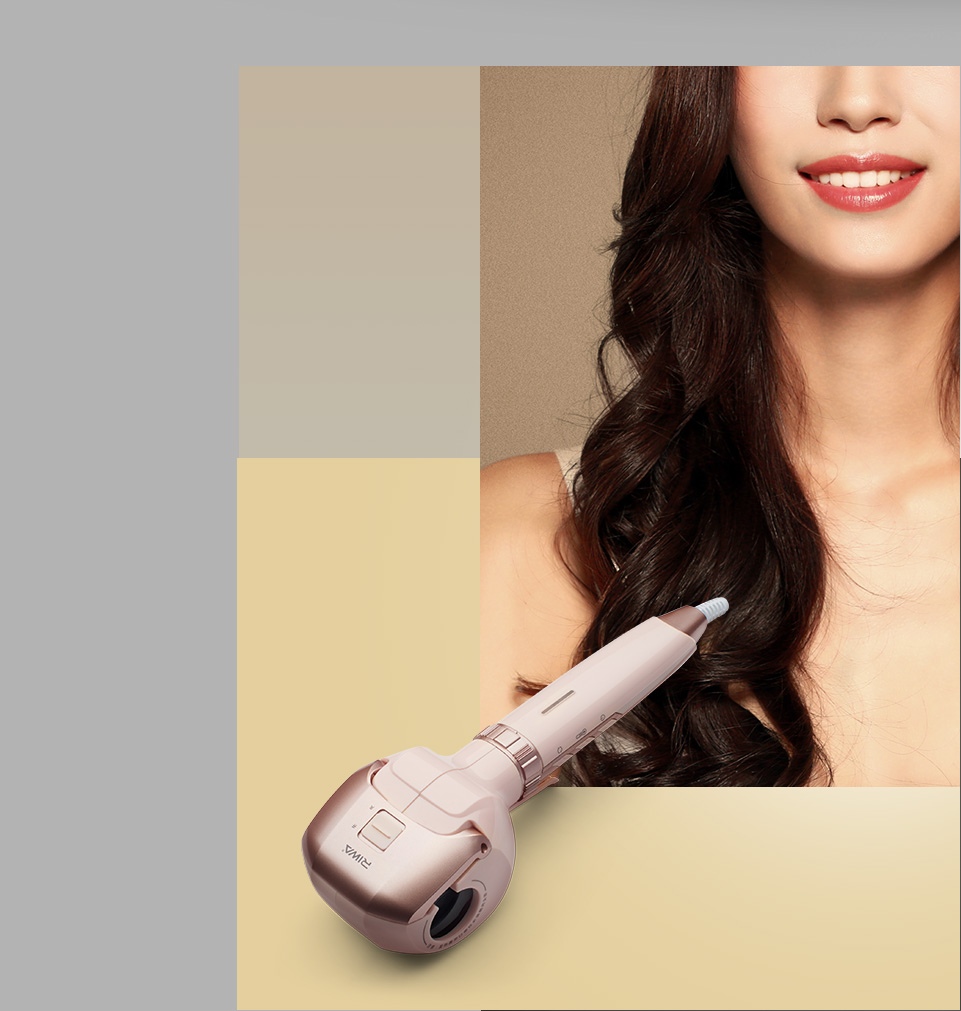
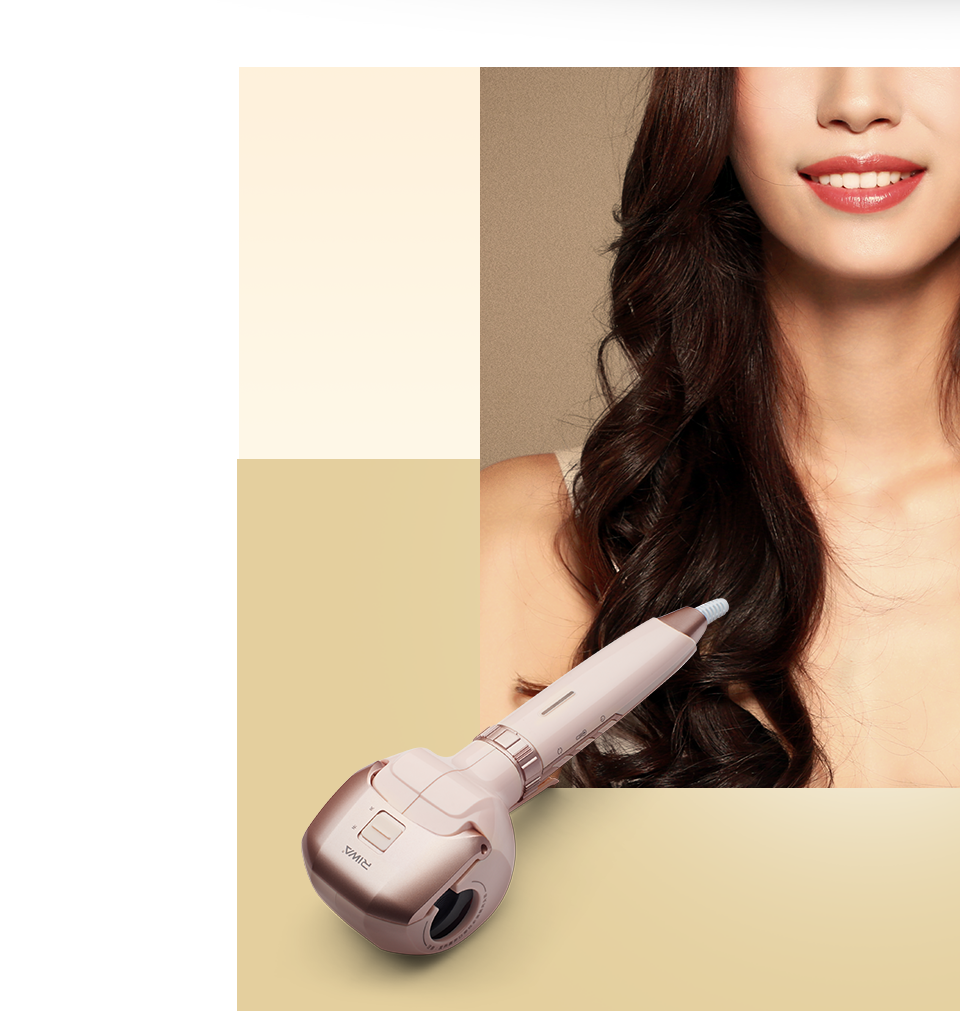
index edit 图片

diff --git a/static/css/main.css b/static/css/main.css
@@ -220,7 +220,18 @@
     letter-spacing:-25px;
 }
 
-
+@media (max-width: 1600px) {
+    .ers1 .index_three_num {
+        font-size: 200px;
+        letter-spacing:-15px;
+    }
+    .ers1  .index_three_fu4{
+        bottom:7%;
+    }
+    .ers1 .index_three_zw{
+        font-size: 20px;
+    }
+}
 @media (max-width: 1101px) {
     .ers1 .index_three_fu4 .index_three_num {
         padding-bottom: 40px;
@@ -237,7 +248,7 @@
     color: #8e8e8e;
     position: absolute;
     left: 30px;
-    top: 10%;
+    top: 7%;
 }
 
 
@@ -1414,7 +1425,7 @@
 }*/
 
 .ers1 .index_three_t {
-    background: #ebeaea;
+    background: #B3B3B3;
 }
 .index_three_fu1 { };
 
